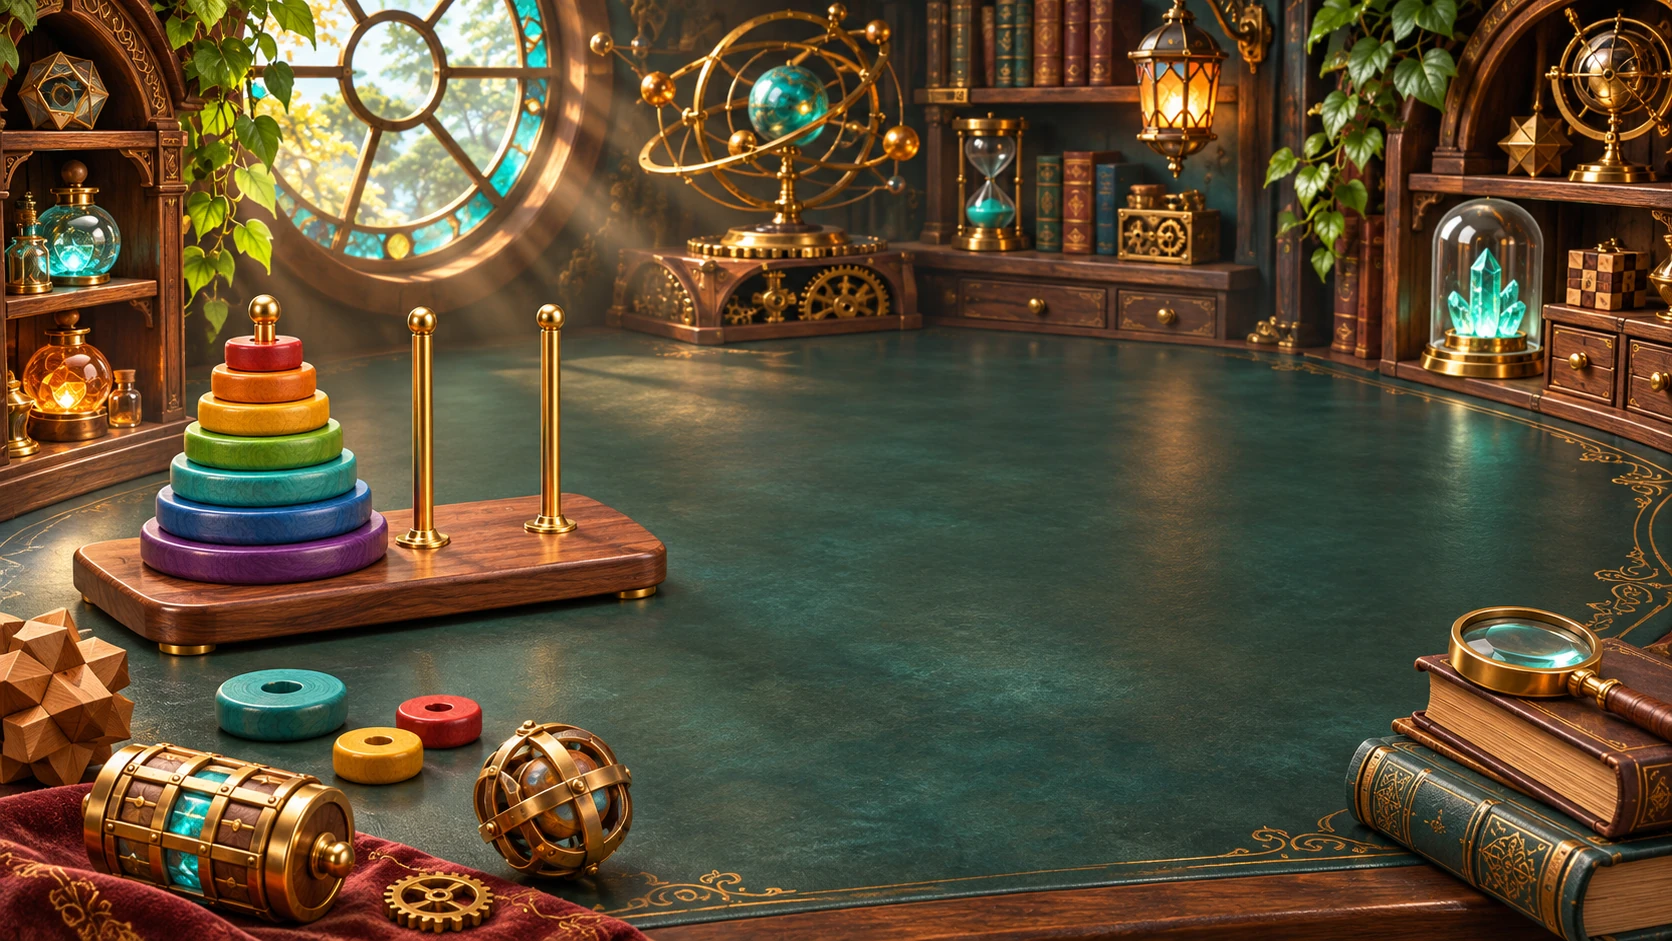
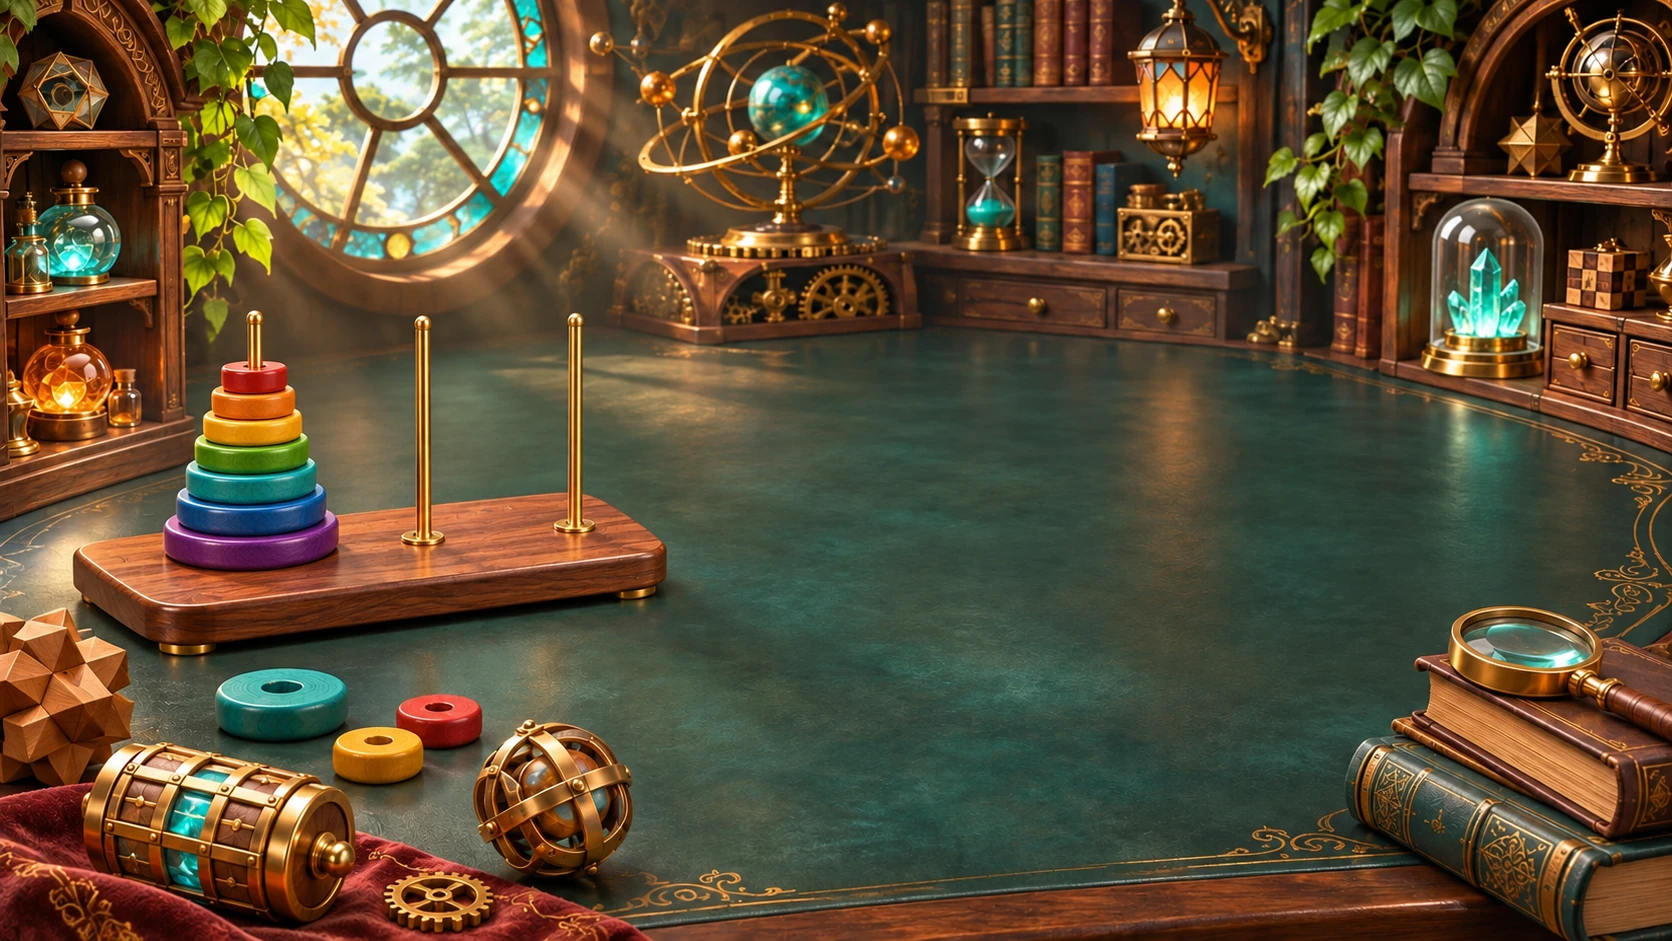
Make the illustrated Hanoi pegs and rings physically usable

diff --git a/learning/games/hanoitower/hanoitower.html b/learning/games/hanoitower/hanoitower.html
@@ -9,7 +9,7 @@
         body { 
             background:
                 linear-gradient(rgba(30, 20, 12, 0.18), rgba(18, 10, 6, 0.34)),
-                url('/learning/games/hanoitower/assets/images/puzzle-workshop.webp') center / cover fixed;
+                url('/learning/games/hanoitower/assets/images/puzzle-workshop.webp?v=20261121-open-pegs') center / cover fixed;
             color: #e6cb9c; 
             font-family: 'Georgia', 'Times New Roman', serif; 
             display: flex; 
